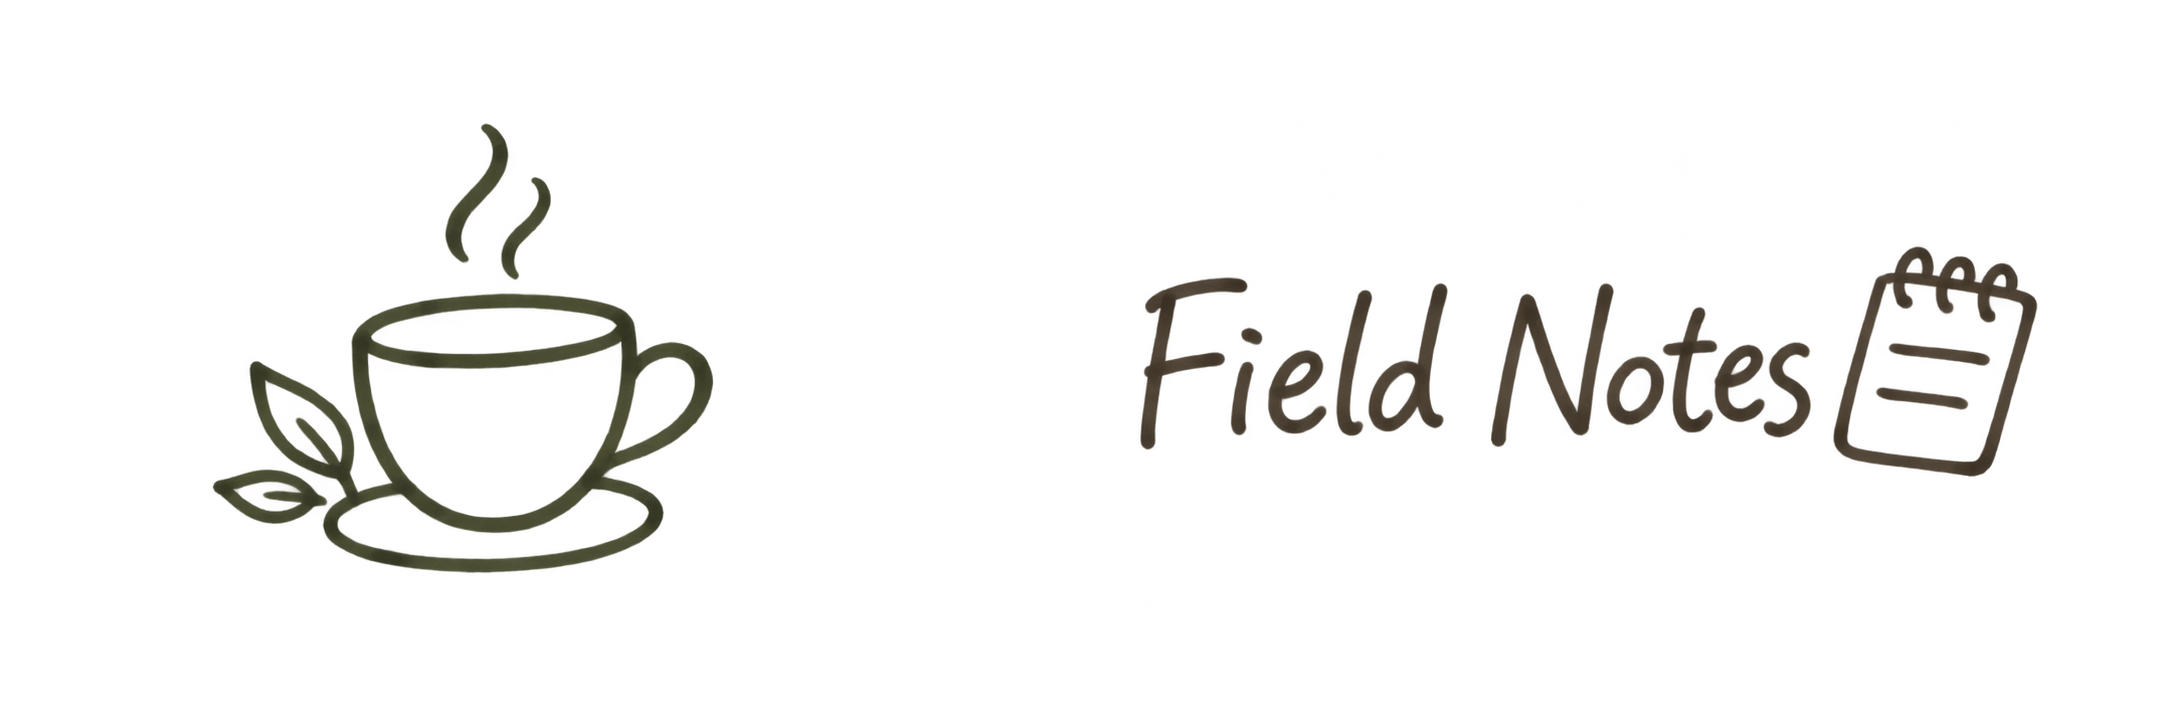
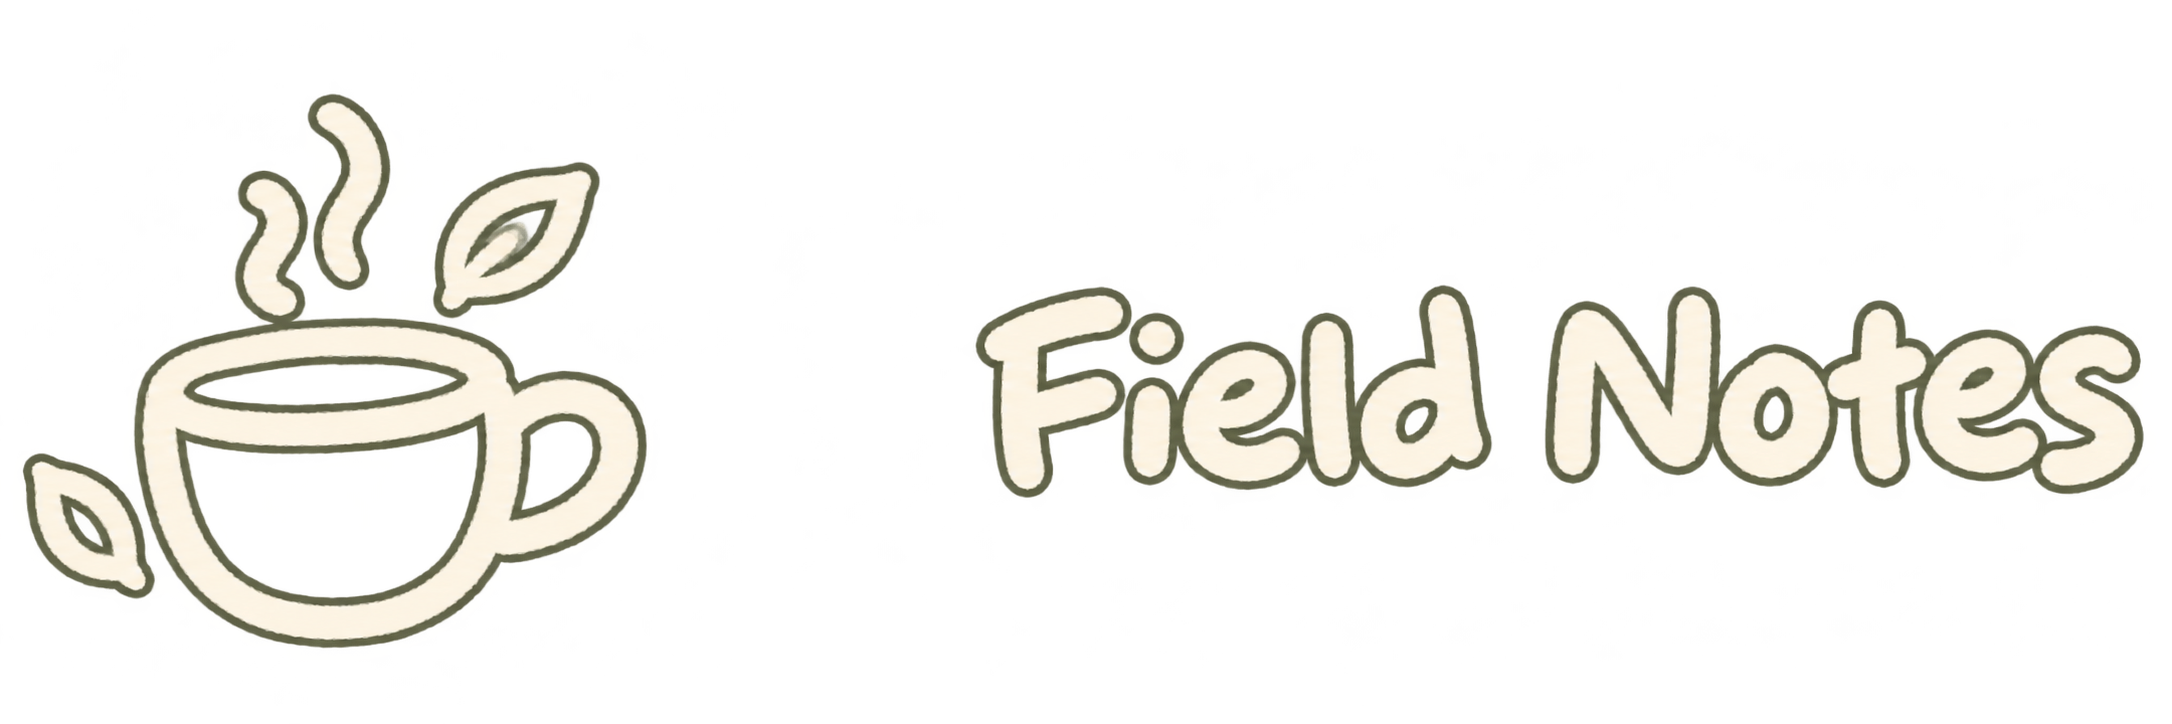
Add holiday portrait demos and marker sticker guidance

Changed region(s): [[0.0, 0.1215, 0.3393, 0.9116], [0.4319, 0.3343, 0.9871, 0.6989]]

diff --git a/references/portrait.md b/references/portrait.md
@@ -10,7 +10,7 @@
 | --- | --- |
 | 3–5 个辨识点 | 从脸形与下颌、发际线或分缝、眉眼关系、鼻形、标志性配饰中选。优先写不易互换的细节，例如「中分、两束鬓发、低马尾」。 |
 | 头部结构 | 按[面部结构与局部修订](face-structure.md)记录侧倾、头部朝向、眼轴、鼻口中线、双侧颊宽及下颌弧线。 |
-| 眼睛与神态 | 分别看两眼的长宽、眼睑遮盖、视线和不对称，再单独记录眉头、嘴角及闭口或露齿。 |
+| 眼睛与神态 | 分别看两眼的长宽、眼睑遮盖、视线和不对称，再单独记录眉头、嘴角及闭口或露齿。标记和表情、辨识度相关的法令纹、笑纹等，记录左右侧可见程度。 |
 | 姿态与衣着 | 按本人照记头部倾斜、肩线、保留的手势，以及衣着底色、图案色与配饰。 |
 | 截线 | 优先用可见物定位。默认从发顶到胸下缘和上腹交界，截线低于主要胸前衣着细节、高于自然腰线。画出两侧肩线及肩缘到上臂的过渡，给肩缘留出透明边距。靠胸或向外伸出的手势都按本人照画出连续形体。确需侧裁时，在拼接时由同侧画布边缘截去外伸手臂。只有头像时按可见衣着保守延展。 |
 
@@ -19,13 +19,14 @@
 | 项目 | 画到什么程度 |
 | --- | --- |
 | 卡通化 | 头部稍大，脸形按本人概括。保留眼轴斜率、长宽关系、眼角方向、视线和左右差异。可以轻提眼睑开口，歪头或转脸时优先保持两眼原有比例。 |
-| 黑墨勾线 | 用近黑墨色（如 #201D19）沿发顶、外露脸颊与下颌、肩线及袖缘落粗笔，笔压由重转轻，转折处自然收尖。外线约为五官内线的 1.5–2 倍，可按缩略图效果调整。眉眼、鼻口、发束和衣缝用较轻的短线；肩袖长轮廓尽量连贯。水平截边保留干净色块。 |
+| 黑墨勾线 | 用近黑墨色（如 #201D19）沿发顶、外露脸颊与下颌、肩线及袖缘落粗笔，笔压由重转轻，转折处自然收尖。外线约为五官内线的 1.5–2 倍。眉眼、鼻口用清楚的中等线重和少量带收笔的短线，在缩图上仍可读。发束和衣缝的辅助线更轻，肩袖长轮廓尽量连贯。水平截边保留干净色块。 |
+| 辨识纹路 | 优先保留主照里影响表情和辨识度的线，例如笑时鼻翼到嘴角旁的法令纹。用一两笔顺结构的短弧概括，近侧与远侧按原照的可见程度处理。次要皮纹、密集眼下线和碎阴影并入大块明暗。 |
 | 面部上色 | 参考暖象牙亮面与克制的土色暗面。浅肤色可从 #F9EEDB 亮面与 #EBD2AE 浅赭阴影起步。额头、脸颊和鼻梁连成开阔亮区，发际、鼻侧、下颌和颈部落少量平涂，手和耳朵沿用同组色相。按本人肤色选择中等或深肤色亮面，暗面取同组稍深的低饱和暖棕。保留自然唇色，避免整脸粉红、金黄或渐变罩染。 |
 | 面部高光（可选） | 先完成亮面与暗面的二分上色，再顺原有光向，在鼻梁、颧骨或额头的受光处点一两笔。颜色比亮面略浅，并随本人肤色调整。模拟马克笔的短平涂笔刷，边界清楚，笔端有轻微的笔压变化与参差，面积小于主要亮面。 |
 | 衣服与头发 | 保留本人发色、衣着底色和关键图案。每块材质用本色与一档平涂暗色。可见水彩笔的宽笔触、参差笔端和少量纸色间隙，少画发丝、织物纹理与反光。 |
 | 透明度 | 人物外部为真实 alpha 透明。人物内部的暖白亮面、眼白、浅色衣物保留不透明。 |
 
-笔法图左上示范有侧倾的头部与粗外线，右上示范中等及深肤色的明暗，左下示范头发分块，右下示范肩袖轮廓与宽笔平涂。图中的五官和衣饰仅供观察笔法，主体造型取自本人照。色卡的三组肤色可随照片微调；衣装和点缀色按题材选用。
+笔法图左上示范有侧倾的头部与粗外线，右上示范中等及深肤色的明暗，左下示范头发分块，右下示范肩袖轮廓与宽笔平涂。图中的五官和衣饰仅供观察笔法，主体造型取自本人照。[面部勾线参考](../assets/face-linework-example.png)示范清楚的眉眼鼻口线、大片亮面和少量保留的法令纹。参考用笔层次，人物的纹路位置与深浅由本人照决定。色卡的三组肤色可随照片微调；衣装和点缀色按题材选用。
 
 ## 3. 人物生成提示词
 
@@ -38,7 +39,7 @@ Identity anchors: [3–5 distinguishing visible traits].
 Expression: [brow tension, eye opening and lids, gaze, asymmetry, mouth expression].
 Pose, clothing and crop: [head direction, shoulder line, retained gesture, clothing colors, accessories, and the exact visible landmark just above the crop edge]. Keep a natural neck and a slightly larger head. Keep the subject’s eye aspect ratios, lid angles, gaze and differences between the two eyes. A subtle increase in lid opening is optional if these relationships stay intact.
 Head structure: [insert subject-specific head roll and turn, eye heights, nose-to-mouth-to-chin axis, and jaw contour from the face-structure guide].
-Make the drawing read as hand-inked on nearly white paper. Follow the supplied line-and-color benchmark when present. Use a bold, pressure-varied near-black brush-pen contour (#201D19 as a starting point) around the hair silhouette, exposed cheek and jaw, shoulders and sleeves. Taper the line at temples and hair tips. Keep brows, eyelids, nose, mouth, hair details and seams in finer tapered strokes. Finish the horizontal torso crop with clean color shapes. Group hair into broad shapes and simplify clothing with broad pen and marker marks.
+Make the drawing read as hand-inked on nearly white paper. Follow the supplied line-and-color benchmark when present. Use a bold, pressure-varied near-black brush-pen contour (#201D19 as a starting point) around the hair silhouette, exposed cheek and jaw, shoulders and sleeves. Taper the line at temples and hair tips. Use confident medium-weight near-black strokes for brows, lids, nose and mouth, with fewer marks and controlled tapers. Keep hair details and seams lighter. When a smile crease or nasolabial fold is characteristic and visible in the source, retain it with one or two economical tapered curves that follow the observed perspective. Merge minor wrinkles and fine tonal modeling into broad marker planes. Finish the horizontal torso crop with clean color shapes. Group hair into broad shapes and simplify clothing with broad pen and marker marks.
 Keep the forehead, cheeks and bridge of the nose in large, open light planes. Use warm ivory (#F9EEDB) with sparse, muted pale ochre-beige shadows (#EBD2AE) for light complexions. For medium and deep complexions, match the person's own base complexion and choose a restrained, slightly darker warm earth tone for shadow. Apply a few flat marks at the hairline, nose edge, jaw and neck, with corresponding tones on the ears and hand. After establishing the two-value light and shadow planes, optionally add one or two small highlights on lit areas such as the nose bridge, cheekbone or forehead. Match the light direction and use a tone slightly lighter than the subject's light plane. Use short, flat marker-brush strokes with defined edges and subtly irregular ends. Keep the highlights small and matte. Keep natural muted lips. Preserve garment colors with one broad shadow step per material. Avoid pink or yellow casts, orange washes, blush, tonal ramps and photographic skin texture.
 Export a true transparent PNG outside the person. Keep near-white highlights inside the portrait opaque. Only the person, with no scenery, decorations, captions or name strip.
 ```
@@ -54,7 +55,8 @@ Export a true transparent PNG outside the person. Keep near-white highlights ins
 | 截线、动作符合参考 | 对照截边附近的衣着地标。确认头部、双侧肩缘和肩部到上臂的过渡完整。若肩部或外伸手臂在图层内突然截断，先补足形体。外伸手臂需要裁切时，留到拼接阶段处理。 |
 | 肤色自然，亮面开阔 | 对照本人肤色与色卡相近组。浅肤色亮面读作暖象牙色，阴影是少量浅赭色块。出现粉红或金黄罩染时，只调肤色及阴影覆盖；手、耳和脖子一起核对。 |
 | 高光克制（如有） | 在缩图确认亮暗两块仍清楚。高光与光向一致，读成短促的马克笔笔触。过亮或过密时减少笔数和面积。 |
-| 外沿粗黑，内线轻 | 在缩图查看发顶、颊缘和肩袖，确认黑墨外线清楚且粗细有变化。内线太重时减轻眉眼和鼻口；边线改粗时沿用原轮廓轨迹。 |
+| 外沿粗黑，五官线清楚 | 在缩图看发顶、颊缘、肩袖和眉眼鼻口。边线改粗时沿用原轮廓轨迹。五官内线太细时加重必要笔画，密集细线改为少量明确的结构线。 |
+| 辨识纹路保留 | 对照主照确认表情所需的法令纹或笑纹仍在，方向、长度及左右轻重符合原照。检查面部仍读成大块明暗。 |
 | PNG 外透明，人物内部高光实 | 检查 alpha 通道和四角；在浅底及深底各预览一次，确认衣领、脸部亮区没有透底、白边或假棋盘格。 |
 
 有问题时沿用最近可用稿，只重做出错的区域或图层，锁定通过检查的五官、姿态、衣着和截线。人物通过上述检查后，继续单独生成风景和装饰，拼接只移动或缩放图层。只改肤色时核对轮廓、眼神与截线。只加重外沿时，沿原轮廓内侧略加笔宽，对照脸形、五官和肩线，保留原来的落点。

diff --git a/references/decoration-and-layout.md b/references/decoration-and-layout.md
@@ -2,15 +2,15 @@
 
 ## 生成装饰
 
-将用户提供的 1–3 组短内容分别绘制。文字用清晰的马克笔手写笔画，保留原文语言、措辞和大小写。短词组优先一行，长词组可在自然词界换行。图标用少量有笔压变化的轮廓线和必要结构线。参考随包的[马克笔线稿示意](../assets/decoration-style.png)取用笔、线重和留白。
+将用户提供的 1–3 组内容做成类似社交照片手绘贴图的马克笔装饰。参考[贴图笔法示意](../assets/decoration-style.png)。文字按原文语言、措辞与大小写手写，用偏宽的圆头笔画、轻微不齐的字高和笔压。浅奶白或淡主题色笔画搭配一圈细描边。短词组尽量一行，长词组可在自然词界换行。
 
-每组文字与图标可用同一种线色。从人物衣着、背景或风景主色中取较深的同色系，例如深橄榄、墨棕或石板蓝，也可沿用近黑墨色。以成品尺寸和纸底上的对比度为准。装饰只画线稿，图标内部、字的封闭空隙和周围保留透明，省去色块、点染和阴影。若用户要求下划线，用同色的短马克笔线。
+图标用宽马克笔勾出一眼可认的形状，只保留少量结构线。像叶片和杯子这样的封闭区域保留透明，只在笔画本身用浅色。浅纸底上沿笔画加一圈细的主题色描边。描边可从衣服、风景或背景取深一些的同色系，例如深橄榄、暖棕或暗朱红。背景较深时可只用浅线。文字的字腔、图标内部和周围留空。图标和文字优先做成独立图层，可分别等比缩放和错落摆放。
 
 ```text
-Draw one isolated hand-lettered phrase, outline icon, or both as marker linework on a true transparent PNG. Render [exact user-supplied phrase with original language and case, icon, or both]. Use [a dark ink hue derived from the subject's clothes, scenery or background] for every stroke within this group, with enough contrast on the intended poster. Use readable marker handwriting and a few pressure-varied contour or structural strokes. Keep the icon interiors and the counters in letters transparent. Use strokes only, with no color fill, shading, marker dabs, extra marks or background. Leave a clear margin. Add a single line in the same ink only if an underline is requested.
+Draw [the exact phrase or icon] as a prominent hand-drawn paint-marker sticker on true transparent PNG. Lettering uses rounded, broad matte ivory or pale theme-colored strokes with a thin contrasting keyline sampled from the portrait's clothes, scenery or background. Keep the word shapes readable and naturally hand-lettered. Use a few bold, pressure-varied strokes to outline the icon, with true transparent space inside its shape. Keep the counters in letters transparent. Preserve the exact language and spelling. Give each element a clear margin. No backing shape, heavy sticker border, shadow, color wash, or filled icon interiors.
 ```
 
-逐字核对文字，并在纸底上预览检查线色对比度。用透明通道确认图标内部和字的空隙是空的。若生图错字，单独修正该组；必要时用独立文字层确保字对。姓名只在用户提供并要求展示时加入。
+逐字核对文字，在成品纸底上预览并确认描边清楚。图标内部和文字字腔需有真实透明。生图错字时只重做文字层。姓名仅在用户提供并要求展示时加入。
 
 ## 选择框线模板
 
@@ -32,7 +32,7 @@ Draw one isolated hand-lettered phrase, outline icon, or both as marker linework
 - 先定人物，再安排风景和装饰。人物核心是发顶、头颈、肩线与躯干；伸出的胳膊、手和肩包不计入核心。缩到预览尺寸时，**人物上半身应占约 50–70% 的视觉分量**。用核心宽约占画宽 50–70% 作参考，再检查纵向。发顶靠近上边框并保留适度呼吸空间：无装饰时以画高的 5–10% 为目标，最多约 12%；有装饰时以 6–14% 为目标，最多约 16%。装饰放侧边，头顶也无需专门留出装饰区。若贴底、发顶留白与双肩完整难以兼顾，先调整位置和等比缩放，再按需要调整未指定的画幅。
 - 人物按指定侧放左下或右下；未指定时优先面朝画内。**人物的躯干截边和风景的岸线、地面或可见底部都贴画面下缘**，各自离底边约 0–3% 画高。风景由对侧进入，可延伸至人物身后并被人物大幅遮挡。画框也可以裁去景物伸出画幅的部分。以露出的树冠、枝干、地标或基底传达场景。摆放时先去掉图层空透明边，再对齐实际内容底部。
 - 有装饰时，风景可见主体约占画高的 **45–55%**，从底边延伸到中线附近。跳过装饰时，风景仍从底边起，可按构图伸到更高的位置。适合画高的树冠、建筑或山形可利用原本给装饰留出的空间，保持人物为视觉中心。以实际露出的主体和基底估算，透明边和零散云朵不计入。若遮挡使风景难辨或露出的主体明显低于中线，优先移动风景。横向景色太矮时等比放大，或用较窄、前后错落的取景重画风景，保留主要地标和基底。
-- 如有装饰，将 1–3 组放在人物对侧、风景上方的空白处。两组或三组做错落摆放；三组按从上到下的顺序，第一、第三组靠外侧安全线，第二组向内靠近人物。人物换边时，装饰的摆放方向随之对调。给文字、图标和脸留出间距，装饰完整落在画内，头顶保持干净。
+- 单组主图标从画宽的 **25–35%** 试起，短标题整组从 **35–50%** 试起，以裁掉透明边后的可见宽度计。图标与字各占一个空区，标题可放在上方或侧上方，主图标放在肩头或面部侧旁的留白。多组贴图可适当缩小并保留一个主图标；三组可按外、内、外错落。优先重排位置或调整画幅，为贴图腾出空间。给脸、发顶轮廓、景物焦点和画框留出间距。
 - 默认让双侧肩缘和肩到上臂的转折都留在画内，并在侧边留出少量空隙。肩部碰到画框时，先把人物往画内移，可以多盖住一些后方风景。空间仍不足时，可等比缩放人物或加宽未指定的画幅。确需侧裁时只裁外伸手臂，让裁口处的袖子或皮肤连续接到边框。用户明确指定的裁切优先。
 - 默认叠放顺序是纸底、风景、人物、装饰。用户可只取部分图层，自行缩放排版。输出新的合成 PNG 和使用过的独立 PNG，必要时保存布局参数，方便重拼。
 
@@ -43,7 +43,7 @@ Draw one isolated hand-lettered phrase, outline icon, or both as marker linework
 1. 头肩和躯干是第一视觉落点，完整的发顶和双侧肩缘都在画内，头顶空白符合上述留边。无装饰时尤其检查顶部有没有预留的大块空区。
 2. 人物截边与风景基底分别贴底。风景经人物遮挡和画框裁切后，露出的片段仍可辨认，可见主体从底部达到中线附近，无装饰时可延伸到中线以上。
 3. 有侧裁时，确认人物只有外伸手臂与画框相交，肩到上臂的转折仍可辨认。若肩缘被切到，先重新摆放。若袖子在纸面中间突然收口，先修复连续形体。
-4. 三组装饰从上到下呈外、内、外错落，文字在成品尺寸下清晰可读。
+4. 主图标在缩图中仍像一枚独立的大贴图，文字清楚且与图标有层次。核对粗笔画、细描边、透明内部和安全边距。
 
 ## 本地拼接
 

diff --git a/SKILL.md b/SKILL.md
@@ -25,13 +25,13 @@ description: 在 Codex 中按四阶段制作手绘卡通肖像海报，优先用
 
 ## 阶段 3/4 装饰文本
 
-弹出填空，请用户以文本提供 1–3 组手绘装饰，或填写「跳过装饰」。可写「文字：共同学习」「图标：两个人一起拼拼图」，也可把两项写在同一组。装饰文字照录，图标按描述绘制。两者均用马克笔手绘线稿，线色随画面色调调整，图标内部留空。
+弹出填空，请用户以文本提供 1–3 组手绘装饰，或填写「跳过装饰」。可写「文字：共同学习」「图标：两个人一起拼拼图」，也可把两项写在同一组。装饰文字照录，图标按描述绘制。两者按[马克笔贴图画法](references/decoration-and-layout.md#生成装饰)绘制。文字圆润醒目，图标用宽笔画勾出并保留透明内部，描边随画面色调调整。
 
 三项齐备后，按[框线模板](references/decoration-and-layout.md#选择框线模板)选定排版，再依次绘制和拼接。每个绘制模块独立输出真实透明底 PNG。
 
 1. 按[人物画法](references/portrait.md)记录辨识点和截线，使用其提示词与[笔法示意](assets/portrait-technique.png)绘制，按[色卡](assets/portrait-palette.png)取色。面部先做二分明暗，再视光向点少量马克笔高光。人物通过该参考里的验收后，再用它作为定制风景和装饰的风格参照。
 2. 直接复用所选预设透明 PNG，或读[风景画法与提示词](references/landscape.md)，以实景照定造型、以人物稿定笔法，独立绘制定制风景。
-3. 按[装饰与拼接](references/decoration-and-layout.md)为每组装饰制作独立 PNG。核对文字、图标、线色对比度和透明通道，确认只保留线条。
+3. 按[装饰与拼接](references/decoration-and-layout.md)为每组装饰制作独立 PNG。在成品缩图核对文字和图标的实际大小、描边对比度与透明留白。
 4. 按[装饰与拼接](references/decoration-and-layout.md)先定头肩和躯干的尺寸，再用[本地拼接脚本](scripts/compose.py)或图层工具排版。人物上半身占约 50–70% 的视觉比重，外伸手臂不参与估算。排版优先让双肩完整留在画内，确需侧裁时只裁外伸手臂。人物叠在风景上方，可以大幅遮挡景物。风景可由画框裁切，保留可辨认的景物片段。两层各自贴底。有装饰时，**风景可见主体铺到中线附近**，上方留给装饰。阶段 3 跳过装饰时，风景可按构图延伸到中线以上。默认用竖幅框线，用户指定画幅时按其要求调整。
 
 ## 阶段 4/4 展示图层与拼接稿

diff --git a/README.md b/README.md
@@ -8,15 +8,22 @@
 
 1. 提供人物照和想保留的特征，例如眼镜、表情、衣着或手势。
 2. 指定照片中的背景、另传实景、选预设，或跳过风景。
-3. 给出 1–3 组装饰文字或图标描述，也可跳过装饰。文字和图标用随画面取色的马克笔线稿。输入齐备时可以一次说明。
+3. 给出 1–3 组装饰文字或图标描述，也可跳过装饰。文字和图标用醒目的马克笔贴图，描边随画面取色。输入齐备时可以一次说明。
 4. 查看独立透明 PNG 和拼接稿。改景、改字或调整位置时可直接复用人物层。
 
 ## 成品示例 · 张三
 
 张三是虚构的 AI 研究者。这张个人画像使用[生成的参考照](examples/zhang-san-source.jpg)。
 
-> 用 $handdrawn-portrait-kit 画张三的个人手绘画像。保留正面头部姿态、圆眼镜、橄榄绿开衫和手持笔记本的动作。风景用参考照里的白桦和湖边步道。装饰用咖啡杯与小叶子的深橄榄色马克笔线稿，采用竖幅。
+> 用 $handdrawn-portrait-kit 画张三的个人手绘画像。保留正面头部姿态、圆眼镜、橄榄绿开衫和手持笔记本的动作。风景用参考照里的白桦和湖边步道。装饰用大号奶白马克笔咖啡杯贴图和深橄榄细描边，采用竖幅。
 
 ![张三的个人手绘肖像成品](examples/zhang-san.png)
 
-可查看[色卡](assets/portrait-palette.png)、[笔法参考](assets/portrait-technique.png)和[五款框线](assets/layout-templates/overview.png)。完整流程见 [SKILL.md](SKILL.md)。本地拼接已有图层需要 Python 和 Pillow，命令和布局格式见[拼接说明](references/decoration-and-layout.md#本地拼接)。
+## 节日贴图示例
+
+| Lonely Halloween | 刘德华 · 恭喜发财 |
+| --- | --- |
+| <img src="examples/lonely-halloween.png" width="300" alt="Lonely Halloween 手绘肖像"> | <img src="examples/andy-lau-gong-xi-fa-cai.png" width="360" alt="刘德华恭喜发财手绘肖像"> |
+| 暖橙纸底、棕橙描边标题与南瓜贴图 | 牡丹场景、朱红描边标题与灯笼贴图 |
+
+可查看[贴图参考](assets/decoration-style.png)、[面部勾线参考](assets/face-linework-example.png)、[色卡](assets/portrait-palette.png)、[笔法参考](assets/portrait-technique.png)和[五款框线](assets/layout-templates/overview.png)。完整流程见 [SKILL.md](SKILL.md)。本地拼接已有图层需要 Python 和 Pillow，命令和布局格式见[拼接说明](references/decoration-and-layout.md#本地拼接)。
